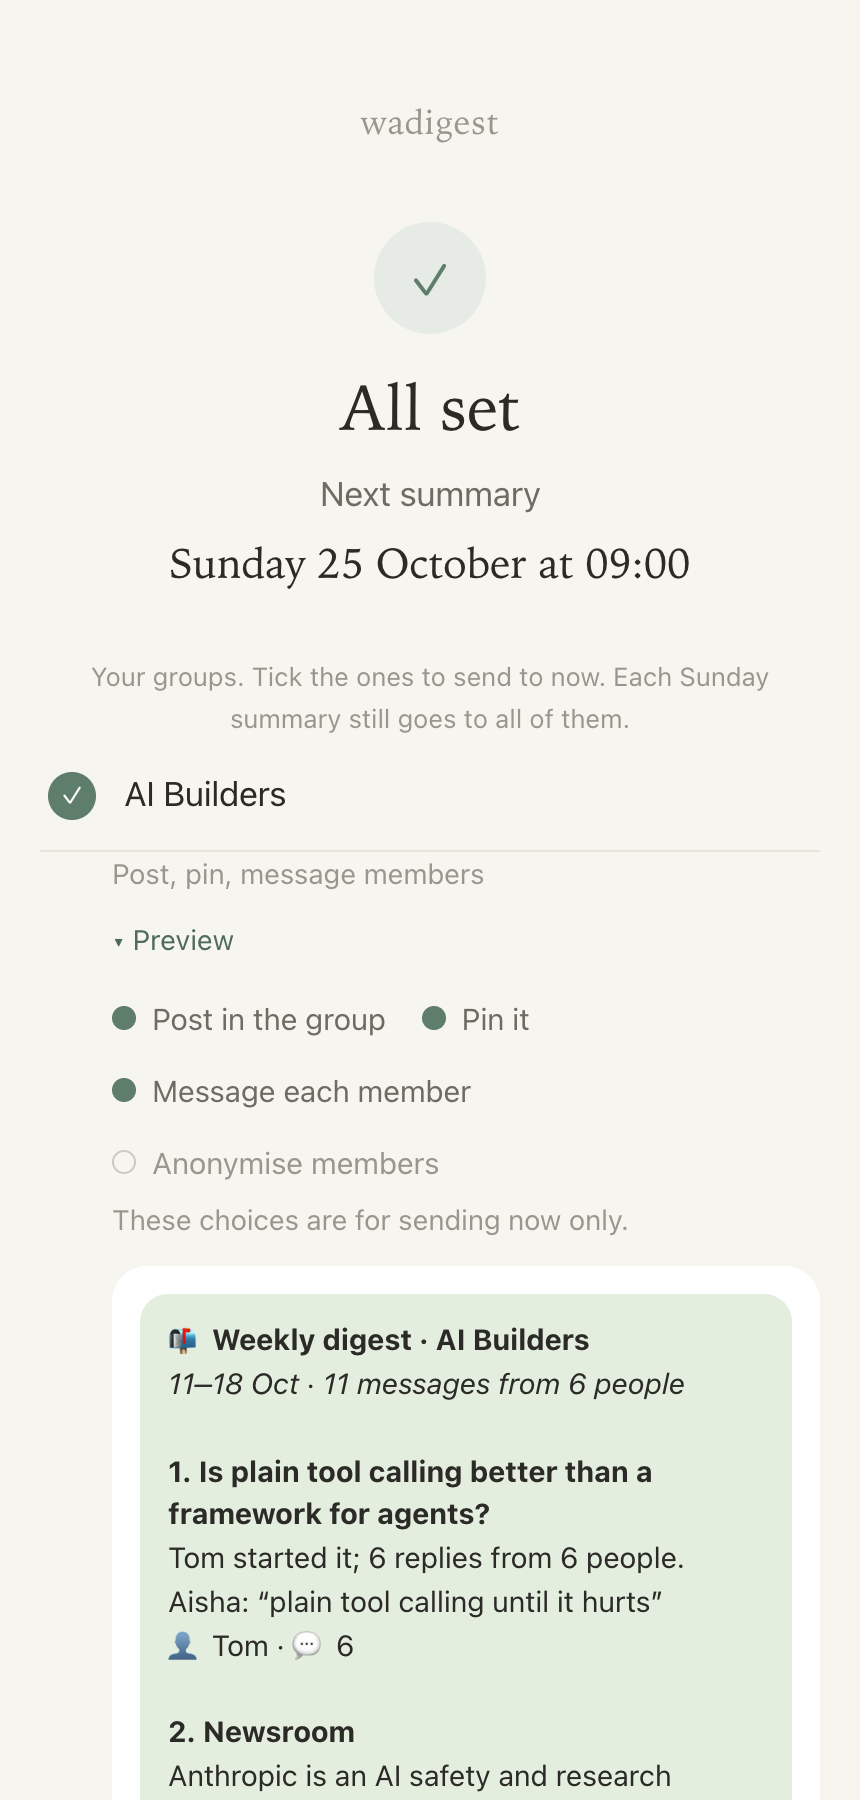
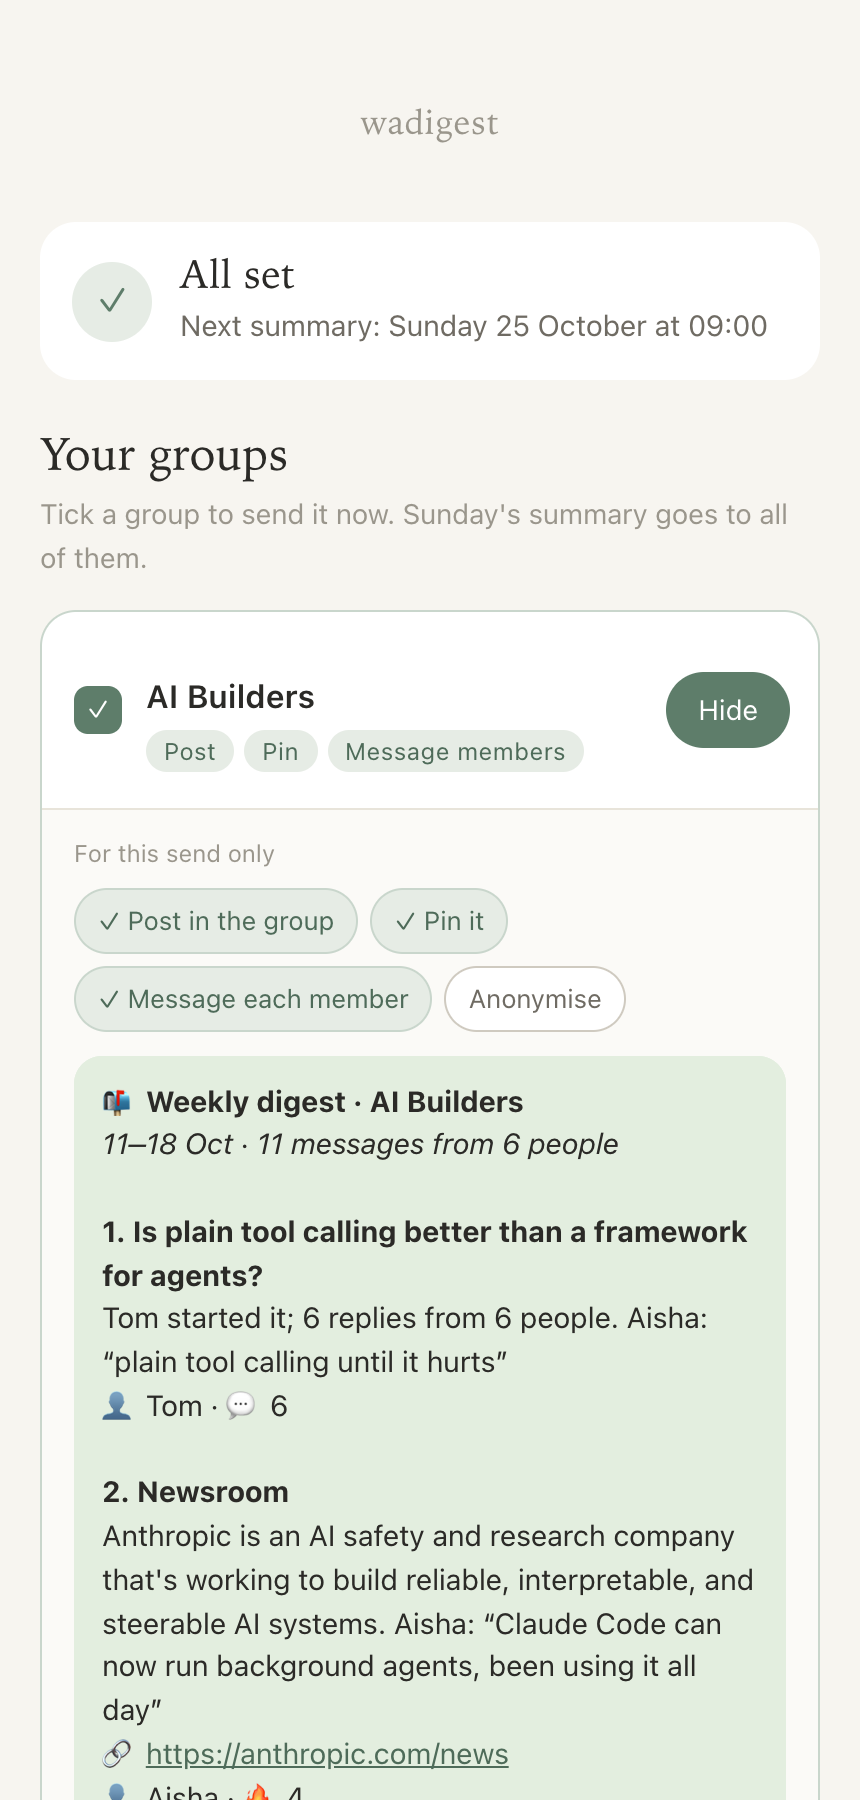
2.6.0: home screen as group cards with a Preview button each; 'Generating the preview'; several unnamed people read as a count; a new summary unpins the old one

diff --git a/src/ui/index.html b/src/ui/index.html
@@ -88,17 +88,35 @@
   .bubble { background: var(--bubble); color: var(--ink); border-radius: 14px 14px 4px 14px; padding: 12px 14px; font-size: 14.5px; line-height: 1.5; white-space: pre-wrap; overflow-wrap: anywhere; }
   .bubble a { color: var(--sage-2); }
   .pvname { font-size: 13px; color: var(--ink-3); margin: 22px 0 0; text-align: center; }
-  details.pv { margin-top: 14px; }
-  details.pv > summary { cursor: pointer; list-style: none; text-align: center; font-size: 14px; color: var(--sage-2); padding: 6px 0; }
-  details.pv > summary::-webkit-details-marker { display: none; }
-  details.pv > summary::before { content: "▸ "; }
-  details.pv[open] > summary::before { content: "▾ "; }
-  details.pv > .phone { margin-top: 8px; }
-  .sendg { margin: 0 0 12px 36px; }
-  .sendg .gsum { margin: 0; text-align: left; }
-  .sendg details.pv { margin-top: 4px; }
-  .sendg details.pv > summary { text-align: left; }
-  .sendg .toggles { margin: 6px 0 2px; }
+  .hcard { display: flex; align-items: center; gap: 14px; background: var(--card); border-radius: 18px; padding: 14px 16px; margin: 0 0 24px; }
+  .hmark { width: 40px; height: 40px; border-radius: 50%; background: var(--sage-soft); color: var(--sage); display: grid; place-items: center; font-size: 18px; flex: none; }
+  .hcard b { display: block; font: 400 20px/1.2 var(--serif); }
+  .hcard span { font-size: 14.5px; color: var(--ink-2); }
+  .hgroups { font: 400 23px/1.2 var(--serif); margin: 0 0 4px; }
+  .gcard { background: var(--card); border: 1px solid var(--line); border-radius: 18px; margin-bottom: 12px; overflow: hidden; transition: border-color .2s; }
+  .gcard.on { border-color: #c9d6cc; }
+  .ghead { display: flex; align-items: center; gap: 12px; padding: 14px 14px 14px 16px; }
+  .gtick { flex: none; cursor: pointer; display: grid; }
+  .gtick input { position: absolute; opacity: 0; pointer-events: none; }
+  .gtick .box { width: 24px; height: 24px; border-radius: 7px; border: 1.5px solid var(--line-2); display: grid; place-items: center; color: #fff; font-size: 13px; transition: background .2s, border-color .2s; }
+  .gtick input:checked + .box { background: var(--sage); border-color: var(--sage); }
+  .gtick input:checked + .box::after { content: "✓"; }
+  .gtick input:focus-visible + .box { outline: 2px solid var(--sage); outline-offset: 2px; }
+  .gname { flex: 1; min-width: 0; }
+  .gname b { display: block; color: var(--ink); font-weight: 600; font-size: 16px; line-height: 1.3; overflow: hidden; text-overflow: ellipsis; white-space: nowrap; }
+  .chips { display: flex; flex-wrap: wrap; gap: 5px; margin-top: 6px; }
+  .chip { font-size: 12px; line-height: 1.6; padding: 1px 9px; border-radius: 99px; background: var(--sage-soft); color: var(--sage-2); }
+  .chip.grey { background: #f0ede6; color: var(--ink-2); }
+  .pvbtn { appearance: none; flex: none; font: inherit; font-size: 14px; border: 1px solid var(--line-2); border-radius: 99px; padding: 7px 15px; background: none; color: var(--ink); cursor: pointer; }
+  .pvbtn:hover { border-color: var(--sage); color: var(--sage); }
+  .pvbtn.open { background: var(--sage); border-color: var(--sage); color: #fff; }
+  .gbody { border-top: 1px solid var(--line); padding: 12px 16px 16px; background: #fbfaf7; }
+  .glbl { font-size: 12px; color: var(--ink-3); margin: 0 0 8px; }
+  .gtogs { display: flex; flex-wrap: wrap; gap: 6px; margin-bottom: 12px; }
+  .gt { appearance: none; font: inherit; font-size: 13px; padding: 5px 11px; border-radius: 99px; border: 1px solid var(--line-2); color: var(--ink-2); background: #fff; cursor: pointer; }
+  .gt.on { background: var(--sage-soft); border-color: #c9d6cc; color: var(--sage-2); }
+  .gt.on::before { content: "✓ "; }
+  .gbody .bubble { max-height: 460px; overflow: auto; }
   details.more { margin-top: 26px; color: var(--ink-3); font-size: 13px; text-align: center; }
   details.more summary { cursor: pointer; }
   .log { font-family: var(--mono); font-size: 12px; text-align: left; background: var(--card); border-radius: 12px; padding: 10px 12px; max-height: 160px; overflow: auto; white-space: pre-wrap; margin-top: 10px; }
@@ -470,23 +488,30 @@ function waFormat(text) {
 function viewHome() {
   setSteps(0);
   const running = /running|paused/.test(S.service);
-  const opts = [['post', 'Post in the group'], ...(S.pin ? [['pin', 'Pin it']] : []), ['dm', 'Message each member'], ['anon', 'Anonymise members']];
-  const pick = new Map(S.groups.map((g) => [g.jid, { jid: g.jid, on: !g.sentToday, post: g.post !== false, pin: !!S.pin && g.post !== false && g.pin !== false, dm: g.dm !== false, anon: g.anon === true }]));
+  const opts = [['post', 'Post in the group'], ...(S.pin ? [['pin', 'Pin it']] : []), ['dm', 'Message each member'], ['anon', 'Anonymise']];
+  const pick = new Map(S.groups.map((g) => [g.jid, { jid: g.jid, name: g.name, on: !g.sentToday, open: false, post: g.post !== false, pin: !!S.pin && g.post !== false && g.pin !== false, dm: g.dm !== false, anon: g.anon === true }]));
   $('#app').innerHTML = `
-    <div class="done-mark">${running ? '✓' : '·'}</div>
-    <h2>${running ? 'All set' : 'Paused'}</h2>
-    <p class="lead" style="margin-bottom:4px">${running ? 'Next summary' : 'Nothing will be sent until you start it again.'}</p>
-    ${running ? `<p class="next">${esc(S.nextRun)}</p>` : '<p class="center" style="margin:18px 0 30px"><button class="btn" id="startsvc">Start again</button></p>'}
-    <p class="pvname">Your groups. Tick the ones to send to now. Each Sunday summary still goes to all of them.</p>
+    <div class="hcard"><div class="hmark">${running ? '✓' : '·'}</div><div><b>${running ? 'All set' : 'Paused'}</b><span>${running ? `Next summary: ${esc(S.nextRun)}` : 'Nothing will be sent until you start it again.'}</span></div></div>
+    ${running ? '' : '<p class="center" style="margin:-6px 0 22px"><button class="btn" id="startsvc">Start again</button></p>'}
+    <h3 class="hgroups">Your groups</h3>
+    <p class="hint" style="margin-bottom:14px">Tick a group to send it now. Sunday's summary goes to all of them.</p>
     <div id="sendlist">${S.groups.map((g) => `
-      <label class="grow"><input type="checkbox" data-jid="${esc(g.jid)}" ${pick.get(g.jid).on ? 'checked' : ''}><span class="tick"></span><span>${esc(g.name)}${g.sentToday ? ` <span class="hint">(already sent today at ${esc(g.sentToday)})</span>` : ''}</span></label>
-      <div class="sendg" data-jid="${esc(g.jid)}"><p class="hint gsum"></p>
-      <details class="pv"><summary>Preview</summary><div class="toggles">${opts.map(([k, t]) => `<button class="tog" data-jid="${esc(g.jid)}" data-k="${k}">${t}</button>`).join('')}</div>
-      <p class="hint">These choices are for sending now only.</p><div class="phone"><div class="bubble"></div></div></details></div>`).join('')}</div>
+      <div class="gcard" data-jid="${esc(g.jid)}">
+        <div class="ghead">
+          <label class="gtick"><input type="checkbox" data-jid="${esc(g.jid)}" aria-label="Send ${esc(g.name)} now"><span class="box"></span></label>
+          <div class="gname"><b>${esc(g.name)}</b><div class="chips"></div></div>
+          <button class="pvbtn" data-jid="${esc(g.jid)}">Preview</button>
+        </div>
+        <div class="gbody hidden">
+          <p class="glbl">For this send only</p>
+          <div class="gtogs">${opts.map(([k, t]) => `<button class="gt" data-jid="${esc(g.jid)}" data-k="${k}">${t}</button>`).join('')}</div>
+          <div class="bubble"></div>
+        </div>
+      </div>`).join('')}</div>
     <div id="senderr" class="err hidden"></div>
-    <button class="btn wide" id="sendgo" style="margin-top:18px" disabled>Send</button>
+    <button class="btn wide" id="sendgo" style="margin-top:6px" disabled>Send</button>
     <div id="out"></div>
-    <p class="links"><button class="btn link" id="invite">Invite</button><button class="btn link" data-go="groups">Change groups</button><button class="btn link" data-go="settings">Change settings</button><button class="btn link" data-go="relink">Change WhatsApp</button></p>`;
+    <p class="links"><button class="btn link" id="invite">Invite</button><button class="btn link" data-go="groups">Change groups</button><button class="btn link" data-go="settings">Settings</button><button class="btn link" data-go="relink">WhatsApp</button></p>`;
   document.querySelectorAll('[data-go]').forEach((b) => b.onclick = () => {
     if (b.dataset.go === 'relink') { linkTab = 'qr'; view = 'link'; viewLink(true); return; }
     picked = null;
@@ -500,7 +525,8 @@ function viewHome() {
     lastQr = '';
     drawQr(link);
   };
-  const box = (jid) => document.querySelector(`.sendg[data-jid="${CSS.escape(jid)}"]`);
+  const card = (jid) => document.querySelector(`.gcard[data-jid="${CSS.escape(jid)}"]`);
+  const sentToday = new Map(S.groups.map((g) => [g.jid, g.sentToday]));
   const want = (c) => `${c.anon ? 1 : 0}${c.dm ? 1 : 0}`;
   const shown = new Map();
   const asked = new Map();
@@ -510,17 +536,18 @@ function viewHome() {
     const missing = on.filter((c) => shown.get(c.jid) !== want(c));
     const empty = on.some((c) => !c.post && !c.dm);
     $('#sendgo').disabled = !on.length || empty || missing.length > 0 || !!S.run?.running;
-    $('#sendgo').textContent = !on.length ? 'Tick a group to send to'
+    $('#sendgo').textContent = !on.length ? 'Tick a group to send it'
       : empty ? 'Each group needs Post or Message'
-        : missing.length ? `Open the preview of ${missing.length === 1 ? 'the ticked group' : `all ${missing.length} ticked groups`} first`
-          : `Send to ${on.length} group${on.length > 1 ? 's' : ''}`;
+        : missing.length === 1 ? `Preview ${missing[0].name} to send`
+          : missing.length ? `Preview the ${missing.length} ticked groups to send`
+            : `Send to ${on.length} group${on.length > 1 ? 's' : ''}`;
   };
   const fetchPreview = (c) => {
     const k = want(c);
     if (asked.get(c.jid) === k) return;
     asked.set(c.jid, k);
-    const el = box(c.jid).querySelector('.bubble');
-    el.innerHTML = `<span class="spin"></span>${S.mode === 'digest' ? 'Reading messages…' : 'Reading every message and writing the summary. This usually takes a minute or two.'}`;
+    const el = card(c.jid).querySelector('.bubble');
+    el.innerHTML = `<span class="spin"></span>Generating the preview…${S.mode === 'digest' ? '' : ' The AI reads every message, so this usually takes a minute or two. Nothing is sent.'}`;
     chain = chain.then(() => (view === 'home' && want(c) === k ? api(`/preview?group=${encodeURIComponent(c.jid)}&anon=${c.anon ? 1 : 0}&dm=${c.dm ? 1 : 0}`) : null)).then((r) => {
       if (!r || view !== 'home' || want(c) !== k) return;
       el.innerHTML = waFormat(r.previews[0].text);
@@ -530,16 +557,24 @@ function viewHome() {
   };
   const paint = () => {
     for (const c of pick.values()) {
-      const b = box(c.jid);
-      b.querySelector('.gsum').textContent = [c.post && 'Post', c.post && c.pin && 'pin', c.dm && 'message members', c.anon && 'names hidden'].filter(Boolean).join(', ').replace(/^./, (x) => x.toUpperCase()) || 'Nothing switched on';
-      b.querySelectorAll('.tog').forEach((t) => { t.classList.toggle('on', !!c[t.dataset.k]); t.setAttribute('aria-pressed', !!c[t.dataset.k]); });
-      if (b.querySelector('details').open && shown.get(c.jid) !== want(c)) fetchPreview(c);
+      const el = card(c.jid);
+      el.classList.toggle('on', c.on);
+      el.querySelector('input').checked = c.on;
+      const chips = [c.post && 'Post', c.post && c.pin && 'Pin', c.dm && 'Message members', c.anon && 'Names hidden'].filter(Boolean);
+      el.querySelector('.chips').innerHTML = (chips.length ? chips : ['Nothing switched on']).map((t) => `<span class="chip">${t}</span>`).join('')
+        + (sentToday.get(c.jid) ? `<span class="chip grey">Sent today ${esc(sentToday.get(c.jid))}</span>` : '');
+      el.querySelector('.gbody').classList.toggle('hidden', !c.open);
+      const pb = el.querySelector('.pvbtn');
+      pb.textContent = c.open ? 'Hide' : 'Preview';
+      pb.classList.toggle('open', c.open);
+      el.querySelectorAll('.gt').forEach((t) => { t.classList.toggle('on', !!c[t.dataset.k]); t.setAttribute('aria-pressed', !!c[t.dataset.k]); });
+      if (c.open && shown.get(c.jid) !== want(c)) fetchPreview(c);
     }
     refreshGo();
   };
-  document.querySelectorAll('#sendlist details').forEach((d) => d.ontoggle = () => { if (d.open) paint(); });
   document.querySelectorAll('#sendlist input').forEach((i) => i.onchange = () => { pick.get(i.dataset.jid).on = i.checked; paint(); });
-  document.querySelectorAll('#sendlist .tog').forEach((t) => t.onclick = () => {
+  document.querySelectorAll('#sendlist .pvbtn').forEach((b) => b.onclick = () => { const c = pick.get(b.dataset.jid); c.open = !c.open; paint(); });
+  document.querySelectorAll('#sendlist .gt').forEach((t) => t.onclick = () => {
     const c = pick.get(t.dataset.jid);
     const k = t.dataset.k;
     c[k] = !c[k];

diff --git a/src/pipeline.js b/src/pipeline.js
@@ -174,6 +174,18 @@ export async function deliver({ cfg, state, wacli, digest, key, noGroup = false,
           result.pinNote = 'this wacli can’t pin messages (run the installer to build the wadigest wacli)';
         }
         if (result.pinned) log.info(`Pinned the digest for ${cfg.pin?.duration || '7d'}`);
+        if (result.pinned && !cfg.pin?.command) {
+          // Only the newest summary stays pinned in each group.
+          const jid = cfg.group.jid;
+          for (const [k, v] of Object.entries(state.posted)) {
+            if (k === key || !v?.pinned || !v.groupMessageId || !(k.startsWith(`${jid}|`) || k.startsWith(`manual|${jid}|`))) continue;
+            try {
+              await pauseSync(() => wacli.unpin(jid, v.groupMessageId));
+              v.pinned = false;
+              log.info(`Unpinned the previous digest (id ${v.groupMessageId})`);
+            } catch (err) { log.warn(`Could not unpin the previous digest (id ${v.groupMessageId}): ${err.message}`); }
+          }
+        }
       } catch (err) {
         result.pinNote = err.message;
         log.warn(`Pin failed (in groups where only admins can pin, the linked number must be an admin): ${err.message}`);

diff --git a/test/e2e.test.js b/test/e2e.test.js
@@ -282,3 +282,19 @@ test('setup page: the Anonymise members tick is saved with the group', async () 
     delete process.env.WADIGEST_FAKE_SERVICE;
   }
 });
+
+test('a new summary unpins the group\'s previous one', async () => {
+  const box = sandbox({ messages: weekOfMessages(30) });
+  const gc = setupCfg();
+  const state = loadState();
+  const c = loadConfig();
+  await runGroupNow({ cfg: c, group: c.groups[0], state, wacli: new Wacli(c) });
+  await runGroupNow({ cfg: c, group: c.groups[0], state, wacli: new Wacli(c) });
+  const sent = box.sent();
+  const posts = sent.filter((x) => x.to === GROUP && x.message).map((x) => x.id);
+  const pins = sent.filter((x) => x.pin);
+  assert.equal(posts.length, 2);
+  assert.deepEqual(pins.filter((p) => !p.unpin).map((p) => p.pin), posts);
+  assert.deepEqual(pins.filter((p) => p.unpin).map((p) => p.pin), [posts[0]]);
+  assert.equal(gc.group.jid, GROUP);
+});

diff --git a/src/anon.js b/src/anon.js
@@ -44,11 +44,19 @@ export function pseudonymise(messages) {
   };
 }
 
+const COUNT = ['Two', 'Three', 'Four', 'Five', 'Six'];
+const MANY = /\b([aA]) member((?:, a member)*),? and a member\b/g;
+
 const swapText = (s, names) => s
   .replace(LABEL, (_, pre, n, at) => {
     const who = (names && names.get(`Member ${n}`)) || '';
     const word = who || (pre || at === 0 ? 'A member' : 'a member');
     return `${pre || ''}${word}`;
+  })
+  .replace(MANY, (_, a, more) => {
+    const n = 2 + (more.match(/, a member/g) || []).length;
+    const word = `${COUNT[n - 2] || 'Several'} members`;
+    return a === 'A' ? word : word.toLowerCase();
   })
   .replace(MENTION, 'someone');
 

diff --git a/test/core.test.js b/test/core.test.js
@@ -228,3 +228,9 @@ test('pseudonymise: the AI gets labels only; names typed in messages and @mentio
   assert.equal(written.items[0].summary, 'Aisha Khan asked Sam Jones to book Sadaf. Tom asked about the time.');
   assert.equal(written.items[0].sharedBy, 'Aisha Khan');
 });
+
+test('anon: several unnamed people read as a count, not "a member and a member"', () => {
+  const d = { items: [{ summary: 'Member 1 and Member 2 shared photos. Then Member 1, Member 2 and Member 3 left.' }] };
+  scrubNames(d);
+  assert.equal(d.items[0].summary, 'Two members shared photos. Then three members left.');
+});

diff --git a/src/wacli.js b/src/wacli.js
@@ -211,6 +211,10 @@ export class Wacli {
     return this.run(['messages', 'pin', '--chat', chat, '--id', msgId, '--duration', duration], { timeoutMs: 120_000 });
   }
 
+  unpin(chat, msgId) {
+    return this.run(['messages', 'pin', '--chat', chat, '--id', msgId, '--unpin'], { timeoutMs: 120_000 });
+  }
+
   /** Remove a message from this account only ("delete for me"); the other person keeps it. */
   deleteForMe(chat, msgId) {
     return this.run(['messages', 'delete', '--chat', chat, '--id', msgId, '--for-me'], { timeoutMs: 120_000 });

diff --git a/test/fixtures/fake-wacli.js b/test/fixtures/fake-wacli.js
@@ -78,7 +78,7 @@ else switch (cmd) {
     break;
   }
   case 'messages pin':
-    fs.appendFileSync(path.join(dir, 'sent.jsonl'), JSON.stringify({ pin: flags.id, chat: flags.chat, duration: flags.duration }) + '\n');
+    fs.appendFileSync(path.join(dir, 'sent.jsonl'), JSON.stringify({ pin: flags.id, chat: flags.chat, duration: flags.duration, ...(flags.unpin && { unpin: true }) }) + '\n');
     out({ pinned: true, chat: flags.chat, id: flags.id, pin_id: 'PIN1', duration_secs: 604800 });
     break;
   case 'sync':

diff --git a/README.md b/README.md
@@ -56,7 +56,7 @@ For every group you can switch these on or off:
 | Switch | What happens |
 | --- | --- |
 | **Post in the group** | The summary is posted in the group chat |
-| **Pin it** | The post is pinned for 7 days, so it stays at the top |
+| **Pin it** | The post is pinned for 7 days, so it stays at the top When the next summary is pinned, the old one is unpinned. |
 | **Message each member** | Everyone in that group gets their own copy by private message, with their interests first ⭐. The copies are then deleted from your own chats ("delete for me"), so your feed stays clear. |
 | **Anonymise members** | The summary shows no names. Each person becomes "a member". This is off by default. |
 
